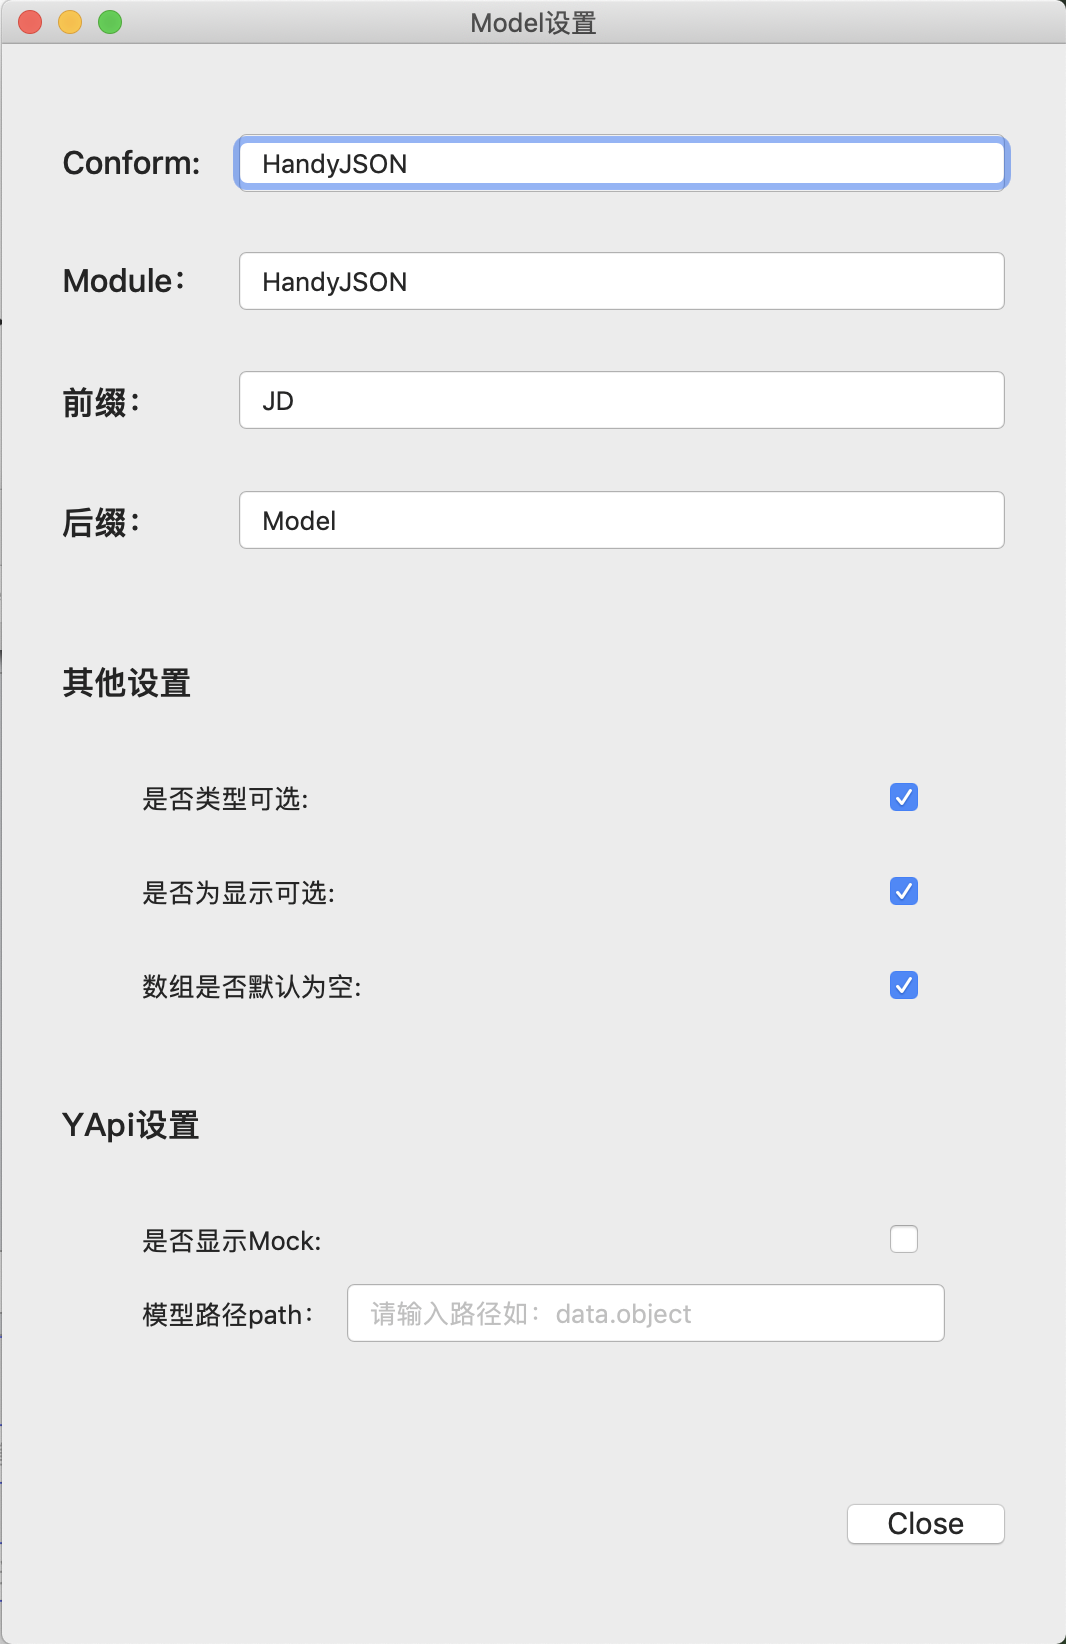
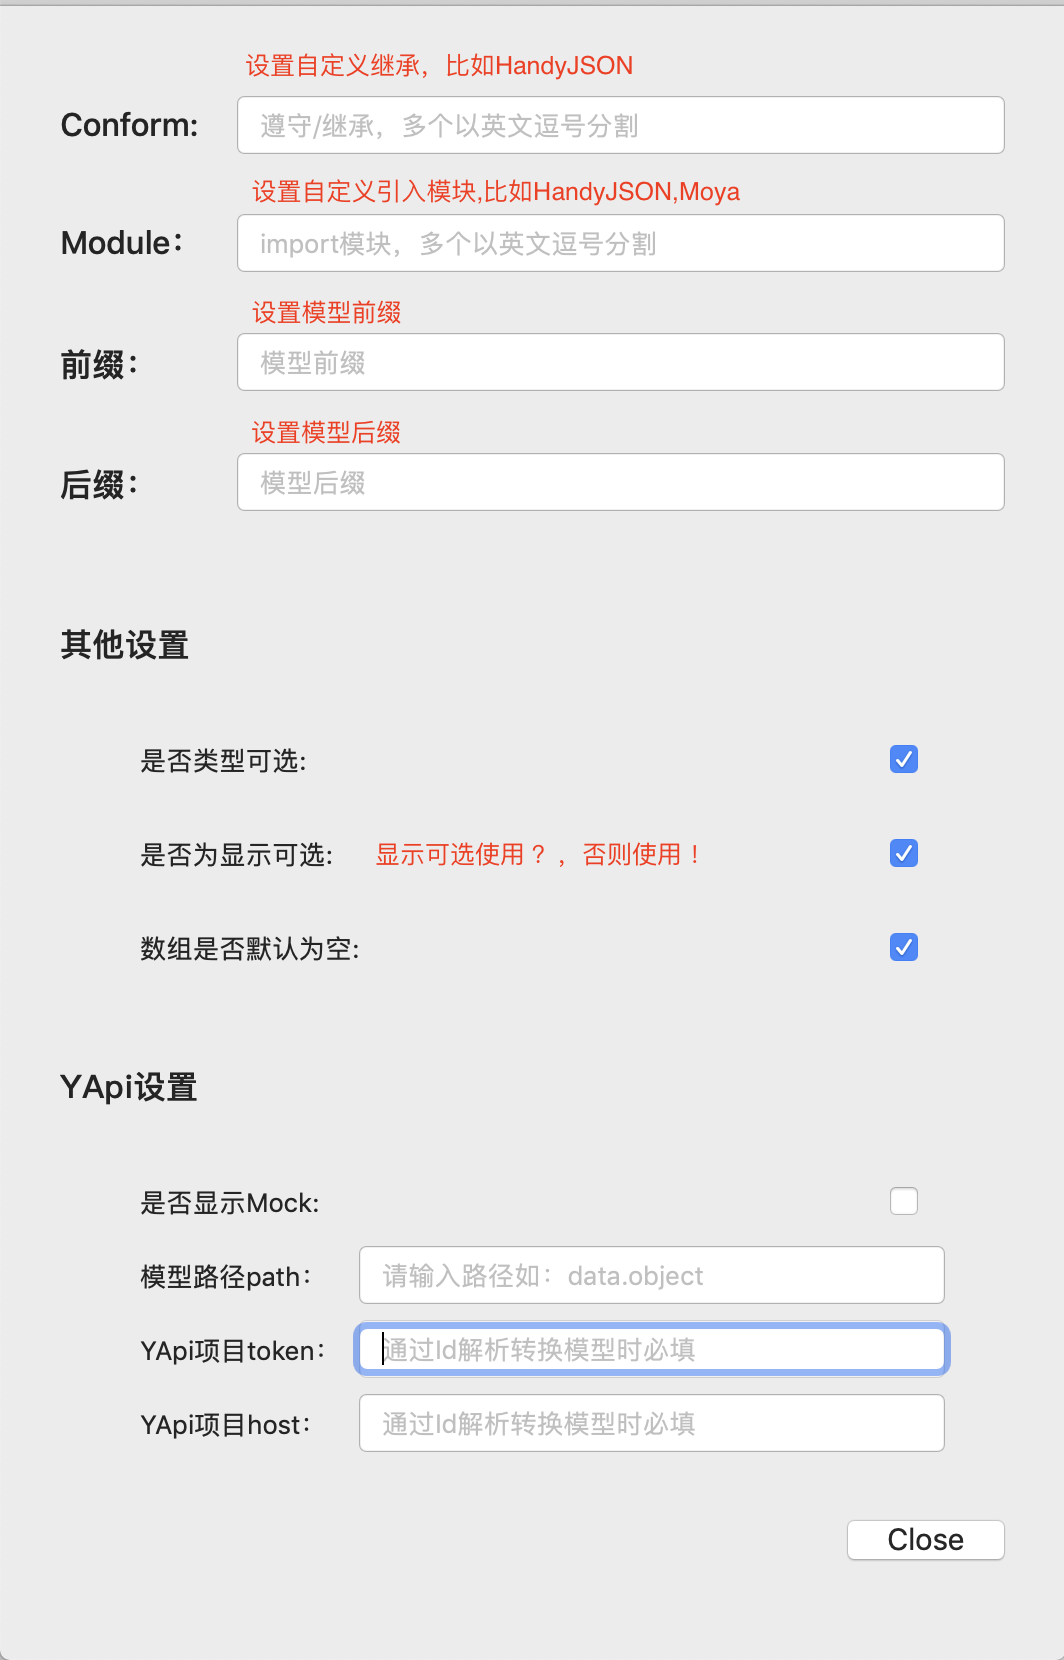
feat: YApi 通过Id转模支持。

diff --git a/SwiftJSONModeler/SourceEditorCommand.swift b/SwiftJSONModeler/SourceEditorCommand.swift
@@ -49,6 +49,7 @@ class SourceEditorCommand: NSObject, XCSourceEditorCommand {
         let commandIdentifier = invocation.commandIdentifier
         if commandIdentifier == configCommand {
             NSWorkspace.shared.open(URL(fileURLWithPath: "/Applications/SwiftJSONModeler For Xcode.app"))
+            completionHandler(nil)
         } else if commandIdentifier == classFromRAWCommand || commandIdentifier == structFromRAWCommand {
             handleInvocation(invocation, raw: pasteboardTest, completionHandler: completionHandler)
             
@@ -58,6 +59,8 @@ class SourceEditorCommand: NSObject, XCSourceEditorCommand {
             YApiRequest.data(id: pasteboardTest) { [weak self](raw) in
                 if let raw = raw {
                     self?.handleInvocation(invocation, raw: raw, completionHandler: completionHandler)
+                }else {
+                    completionHandler(nil)
                 }
             }
         }

diff --git a/README.md b/README.md
@@ -1,6 +1,7 @@
-SwiftJSONModeler是一个Xcode插件，可以将json 转为模型
+SwiftJSONModeler是一个Xcode插件，可以将json 转为Swfit模型
 * 支持struct, class 
-* 支持标准单json和YApi RAW（自动为你添加注释）
+* 支持单json转模
+* 支持YApi RAW或接口id解析转模，并且自动添加注释
 * 支持自定义遵循 和 import
 * 支持自定义模型前缀和后缀
 * 可设置是否类型可选，是否使用显示可选`?`(不使用则为隐式可选`!`)
@@ -13,15 +14,16 @@ SwiftJSONModeler是一个Xcode插件，可以将json 转为模型
 复制单json, 一步转为模型。
 
 ![运行效果](./Sources/example.gif)
-如果无法预览查看Sources/example.gif
+如果无法预览查看[Sources/example.gif](./Sources/example.gif)
 
 ### YApi RAW解析
 
-复制YApi接口RAW数据，一步解析模型。如果配置为继承和引入HandyJSON， 添加JD模型前缀和Model后缀，解析效果如下：
+复制YApi接口RAW数据，一步解析带有注释的模型。
+解析效果如下()：
 
 ![解析YApi](./Sources/YApiRAW.gif)
 
-如果无法预览查看Source/YApiRAW.gif
+如果无法预览查看[Source/YApiRAW.gif](./Sources/YApiRAW.gif)
 
 ## 安装
 1.你可以选择[Release](https://github.com/yumengqing/SwiftJSONModeler/releases) 直接下载应用安装
@@ -41,7 +43,24 @@ SwiftJSONModeler是一个Xcode插件，可以将json 转为模型
 
 > Tip:如果重启Xcode之后在Editor中还没看见插件选项，请选择系统设置-> 扩展->Xcode Source Editor中对应插件是否导入
 
-### 设置快捷键
+## 设置
+SwiftJSONModeler提供多种自定义可选设置，可通过插件的Config选项进行设置。
+
+设置选项如下图：
+
+![可选设置](./Sources/config.png)
+
+**YApi模型路径指定**：当对象含有多层json,或者有基本json包裹时，可以指定path解析模型。
+
+**YApi项目token**： 每个YApi项目都有唯一一个token,在YApi项目接口的设置中可以查看对应的token,如下图：
+
+![token](./Sources/yapiToken.png)
+
+**YApi项目host**：host就是部署YApi的地址
+
+![host](./Sources/yapiHostId.png)
+
+## 设置快捷键
 
 可以给插件设置快捷键，快速转换模型
 
@@ -50,20 +69,10 @@ SwiftJSONModeler是一个Xcode插件，可以将json 转为模型
 ![](./Sources/keybinding.png)
 
 记得双击key下面那个区域才可以编辑，这里我使用的是alt + s 和alt + c 避免与系统的冲突
-### Model设置
-模型设置提供一些自定义控制，具体如下图：
-![Alt](./Sources/config.png)
-### 自定义操作confrom 和import
-
-可以通过点击应用或者选择扩展的config选项，自定义填写import模块和继承
-
-比如我需要继承HandyJSON
-
-![自定义遵循](./Sources/customConfig.png)
-
 ## 标准JSON转模
 
-使用的使用，首先要选中需要转换的json,注意不标准的json会报错的哟。仅限单层json，多层json子json需要单独转换
+复制需要转换的json,选择插件的Struct JSON或者Class JSON功能，即可生成相应Swift模型。
+注意：目前只支持单层json
 
 示例json
 
@@ -104,7 +113,17 @@ struct <#Model#>: HandyJSON {
 
 ## YApi 接口平台转模
 
-如果你使用YApi接口平台，可以通过复制接口返回的 RAW数据，自动转为模型，并且自动根据YApi为模型添加注释。
+如果你使用YApi接口平台，可以通过复制接口返回的 RAW数据，或者复制Id，自动转为模型，并且自动根据YApi为模型添加注释。
+
+### 通过Id转模
+
+在配置了项目token和host基础下,简单复制Id即可实现转模和添加注释.
+
+**如何查看YApi接口中的id？**在YApi对应的接口中，查看浏览器网址，最后的数字就是Id。如下图：
+
+![接口Id](./Sources/yapiHostId.png)
+
+
 
 ### RAW数据
 
@@ -114,15 +133,17 @@ struct <#Model#>: HandyJSON {
 
 示例RAW数据：
 
-```swift
-{"type":"object","title":"empty object","properties":{"person":{"type":"object","properties":{"name":{"type":"string","description":"姓名","mock":{"mock":"小明"}},"age":{"type":"integer","description":"年龄","mock":{"mock":"12"}},"school":{"type":"object","properties":{"address":{"type":"string","mock":{"mock":"xx街道xx号"},"description":"学校地址"},"schoolName":{"type":"string","description":"学校名字"}},"required":["address","schoolName"],"description":"学校"},"likes":{"type":"array","items":{"type":"string"},"description":"好友"},"teachers":{"type":"array","items":{"type":"object","properties":{"name":{"type":"string","description":"老师名字"},"subject":{"type":"string","description":"科目","mock":{"mock":"语文"}},"isMale":{"type":"boolean","description":"是否为男"}},"required":["name","subject","isMale"]}}},"required":["name","age","school","likes","teachers"],"description":"个人信息详情"}},"required":["person"]}
+```javascript
+{"type":"object","title":"empty object","properties":{"message":{"type":"string"},"code":{"type":"string"},"response":{"type":"object","properties":{"teachers":{"type":"array","items":{"type":"object","properties":{"name":{"type":"string","mock":{"mock":"Mrs Yang"},"description":"名字"},"subject":{"type":"string","mock":{"mock":"语文"},"description":"科目"},"phone":{"type":"string","mock":{"mock":"13459923098"},"description":"联系电话"}},"required":["name","subject","phone"]},"description":"老师"},"name":{"type":"string","description":"姓名"},"age":{"type":"integer","mock":{"mock":"18"},"description":"年龄"},"score":{"type":"number","mock":{"mock":"89.8"},"description":"综合成绩"},"likes":{"type":"array","items":{"type":"string","mock":{"mock":"英雄联盟"}},"description":"爱好"},"emergercyContact":{"type":"object","properties":{"name":{"type":"string"},"phone":{"type":"string","description":"联系电话"},"address":{"type":"string","description":"联系地址","mock":{"mock":"xx街道xx栋xx单元"}}},"description":"紧急联系人","required":["name","phone","address"]},"isBoy":{"type":"boolean","description":"是否为男孩"}},"required":["teachers","name","age","score","likes","emergercyContact","isBoy"]}},"required":["message","code","response"]}
 ```
 
 > 完整示例可下载打开SwiftJSONModelerDemo查看
 
 ### 解析指定路径模型
 
-如果你数据有多层json, 可以在设置中指定解析路线path 比如想解析json data属性下的，则在path中添加`data`,也可以解析多层路径比如`data.person` 
+如果你数据有多层json, 可以在设置中指定解析路线path来获取指定模型。比如我的目标数据在response字段下，则可以配置path为response.则直接解析response下的json模型。多路径使用 `.`
+
+ 
 
 ## 待优化
 
